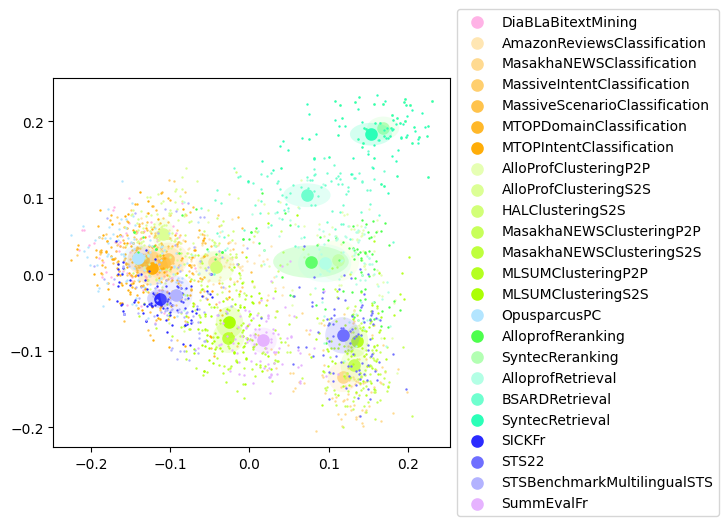
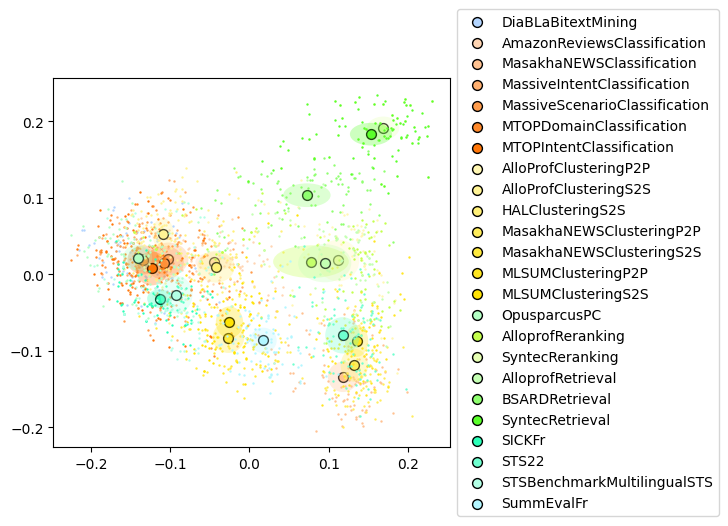
add results

diff --git a/script_mteb_french/results_analysis/datasets_similarity.py b/script_mteb_french/results_analysis/datasets_similarity.py
@@ -211,7 +211,7 @@ if __name__ == '__main__':
 
     # Plot PCA components
     types_to_colors = {
-        k : [hsv_to_rgb((j/len(TYPES_TO_TASKS), i, 1))
+        k : [hsv_to_rgb(((j/1.5)/len(TYPES_TO_TASKS), i, 1))
              for i in np.arange(.3, 1, .8/len(v))]
         for j, (k,v) in enumerate(TYPES_TO_TASKS.items())
     }
@@ -221,6 +221,7 @@ if __name__ == '__main__':
         for i, j in zip(v, types_to_colors[k])
     }
     labels = np.concatenate([np.full((args.n_samples), i) for i in range(len(tasks_samples_dict))]).flatten()
+    plt.figure(figsize=(36, 24))
     fig, ax = plt.subplots()
     for i, name in enumerate(tasks_embeddings_dict.keys()):
         color = task_name_to_color[name]
@@ -228,13 +229,9 @@ if __name__ == '__main__':
         y = reduced[i*args.n_samples:(i+1)*args.n_samples, 1]
         centroid = (x.mean(), y.mean())
         ax.scatter(x, y, s=.5, color=color)
-        ax.scatter(centroid[0], centroid[1], lw=2, s=50, color=color, label=name)
-        ellipse = Ellipse(xy=centroid, width=x.std(), height=y.std(), fc=color, lw=0, alpha=.2)
+        ax.scatter(centroid[0], centroid[1], lw=1, s=50, color=color, label=name, edgecolors="black")
+        ellipse = Ellipse(xy=centroid, width=x.std(), height=y.std(), fc=color, lw=0, alpha=.3)
         ax.add_patch(ellipse)
-        ax.annotate(name[0] + name[-1], centroid,
-                    xytext=(centroid[0] - .04, centroid[1] - .04),
-                    arrowprops=dict(arrowstyle="->", connectionstyle="arc3,rad=.2")
-                    )
     # Setup legend on the side
     box = ax.get_position()
     ax.set_position([box.x0, box.y0, box.width * 0.8, box.height])
